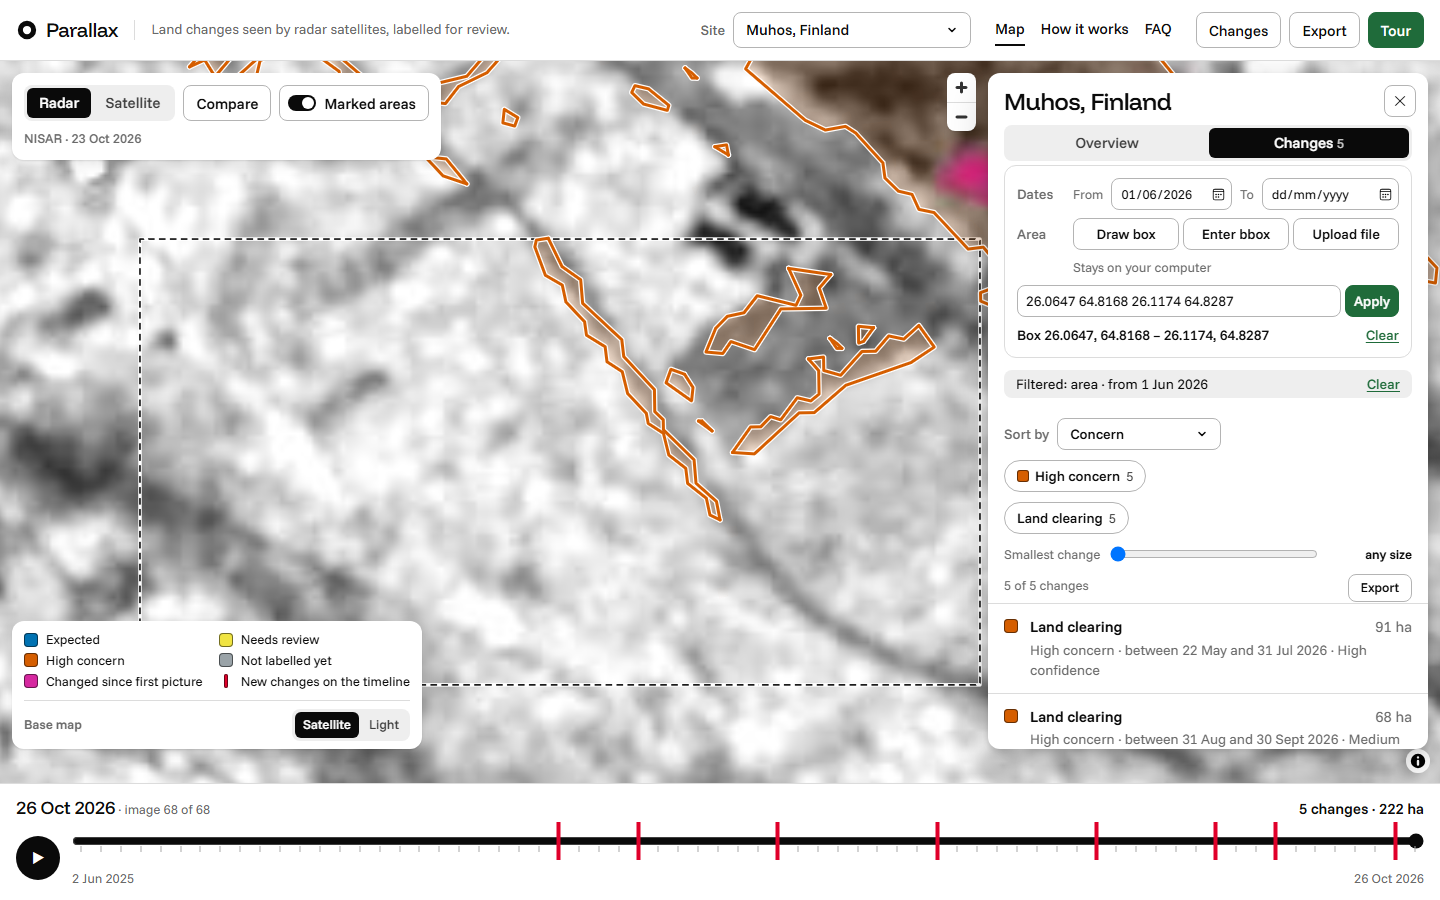
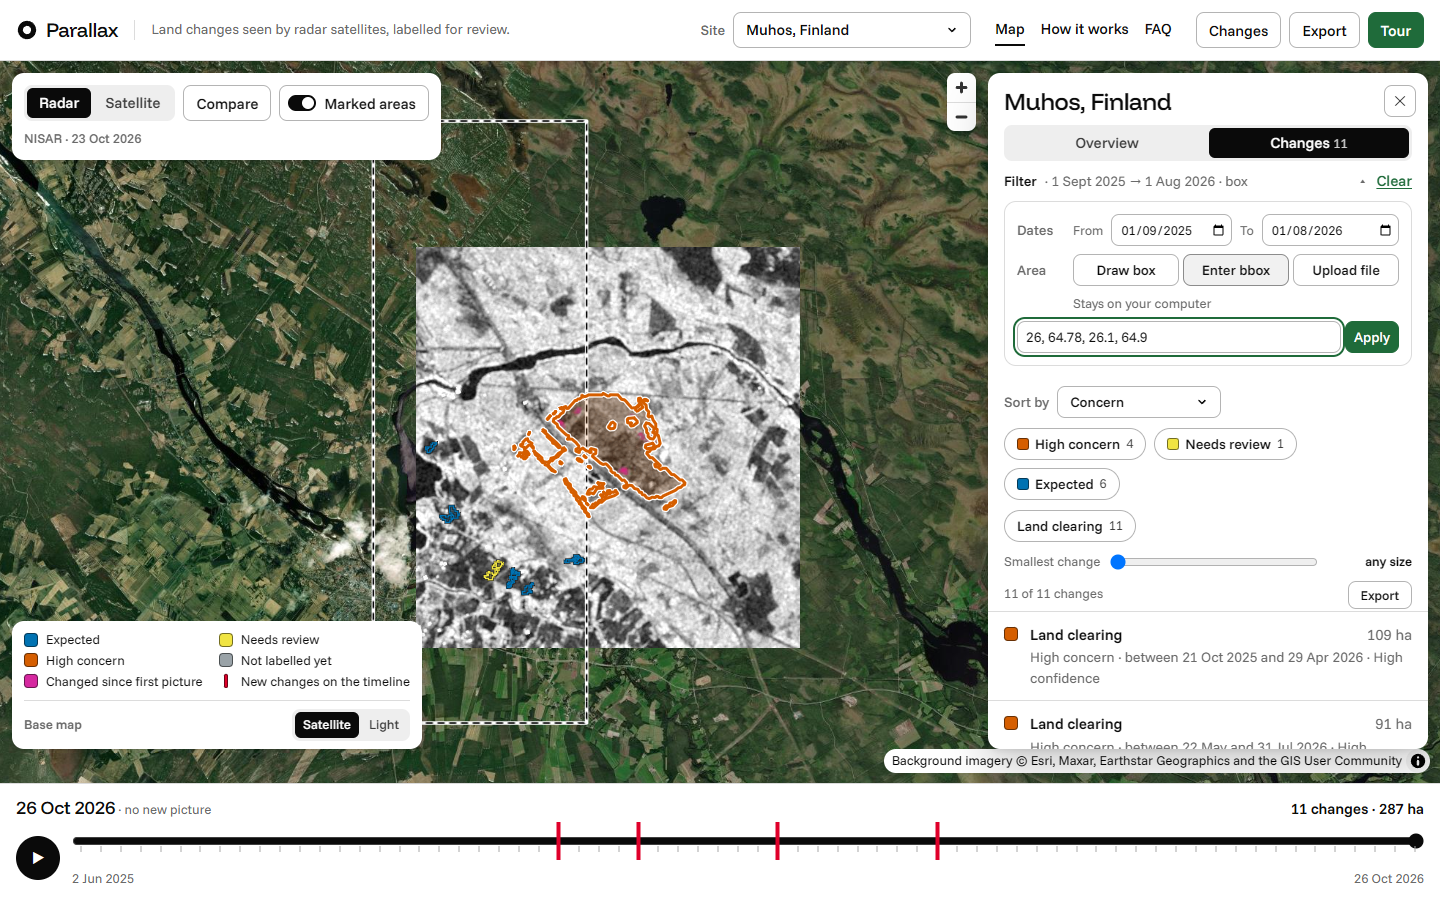
Report: summary follows the key numbers, sources in two columns when long, no empty last page (#119)

diff --git a/app/js/report.js b/app/js/report.js
@@ -239,7 +239,7 @@ export async function buildReport(ctx, aiText, picture) {
   y += 2;
 
   // map picture, legend, attribution
-  const mh = Math.min(115, (W * picture.h) / picture.w);
+  const mh = Math.min(105, (W * picture.h) / picture.w);
   doc.addImage(picture.url, "JPEG", M, y, W, mh);
   doc.setDrawColor(180).setLineWidth(0.2).rect(M, y, W, mh);
   y += mh + 4;
@@ -266,18 +266,27 @@ export async function buildReport(ctx, aiText, picture) {
     columnStyles: { 1: { halign: "right" }, 2: { halign: "right" } },
   });
 
-  // summary (the heading stays with its text: both move to the next page together)
+  // summary: it follows the key numbers on page 1 and continues on the next page only when it must
   if (aiText) {
-    const ls = lines(aiText, W - 8);
-    const bh = ls.length * 4.6 + 15;
-    heading("Summary", bh + 12);
-    doc.setFillColor(244, 244, 244).setDrawColor(190).rect(M, y, W, bh, "FD");
-    doc.setFont("helvetica", "bold").setFontSize(10).setTextColor(0); text("AI-written summary", M + 4, y + 6);
-    doc.setFont("helvetica", "normal").setFontSize(10).setTextColor(30);
-    ls.forEach((l, i) => text(l, M + 4, y + 11.5 + i * 4.6));
-    doc.setFontSize(8).setTextColor(...GREY);
-    text("Written by an AI model from the numbers in this report. Check the list below before acting.", M + 4, y + bh - 2.5);
-    y += bh + 2;
+    heading("Summary");
+    const rows = [
+      { s: "AI-written summary", font: "bold", size: 10, color: 0 },
+      ...lines(aiText, W - 8).map((s) => ({ s, font: "normal", size: 10, color: 30 })),
+      { s: "Written by an AI model from the numbers in this report. Check the list below before acting.", font: "normal", size: 8, color: GREY },
+    ];
+    for (let i = 0; i < rows.length;) {
+      let fit = Math.floor((277 - y - 6) / 4.6);
+      if (fit < Math.min(3, rows.length - i)) { doc.addPage(); y = M; fit = Math.floor((277 - y - 6) / 4.6); }
+      const part = rows.slice(i, i + fit);
+      const bh = part.length * 4.6 + 6;
+      doc.setFillColor(244, 244, 244).setDrawColor(190).rect(M, y, W, bh, "FD");
+      part.forEach((r, k) => {
+        doc.setFont("helvetica", r.font).setFontSize(r.size).setTextColor(...[].concat(r.color));
+        text(r.s, M + 4, y + 6 + k * 4.6);
+      });
+      y += bh + 2;
+      i += part.length;
+    }
   } else {
     const rule = ruleSummary(ctx);
     heading("Summary", lines(rule, W).length * 4.6 + 12);
@@ -325,24 +334,44 @@ export async function buildReport(ctx, aiText, picture) {
   // numbered sources (the "Src" column points here)
   if (sources.length) {
     heading("Sources");
-    doc.setFont("helvetica", "normal").setFontSize(8);
-    sources.forEach((s, i) => {
-      need(9);
-      doc.setTextColor(30);
-      text(`[${i + 1}] ${clip(s.name, 90)}`, M, y); y += 3.6;
-      doc.setTextColor(0, 70, 160);
-      let rest = latin1(s.url);
-      while (rest) { // a URL has no spaces: cut it by width
+    const many = sources.length > 25; // a long list is printed small, in two columns, so it does not add pages of links
+    const size = many ? 6.5 : 8;
+    const line = many ? 2.9 : 3.4;
+    const colW = many ? (W - 6) / 2 : W;
+    doc.setFont("helvetica", "normal").setFontSize(size);
+    const cut = (url) => { // a URL has no spaces: cut it by width
+      const parts = [];
+      let rest = latin1(url);
+      while (rest) {
         let n = rest.length;
-        while (n > 1 && doc.getTextWidth(rest.slice(0, n)) > W - 4) n--;
-        need(4);
-        text(rest.slice(0, n), M + 4, y);
-        doc.link(M + 4, y - 3, W - 4, 3.6, { url: s.url });
-        rest = rest.slice(n); y += 3.4;
+        while (n > 1 && doc.getTextWidth(rest.slice(0, n)) > colW - 4) n--;
+        parts.push(rest.slice(0, n));
+        rest = rest.slice(n);
+      }
+      return parts;
+    };
+    let col = 0;
+    let top = y;
+    sources.forEach((s, i) => {
+      const parts = cut(s.url);
+      const height = (parts.length + 1) * line + 1.2;
+      if (y + height > 277) {
+        if (many && col === 0) { col = 1; y = top; }
+        else { doc.addPage(); y = M; top = M; col = 0; }
+      }
+      const x = M + col * (colW + 6);
+      doc.setFont("helvetica", "normal").setFontSize(size).setTextColor(30);
+      text(`[${i + 1}] ${clip(s.name, many ? 50 : 90)}`, x, y); y += line;
+      doc.setTextColor(0, 70, 160);
+      for (const part of parts) {
+        text(part, x + 4, y);
+        doc.link(x + 4, y - 3, colW - 4, 3.6, { url: s.url });
+        y += line;
       }
       y += 1.2;
     });
   }
+  if (doc.getNumberOfPages() > 1 && y <= M + 0.1) doc.deletePage(doc.getNumberOfPages()); // never end on an empty page
 
   // footer on every page
   const pages = doc.getNumberOfPages();
